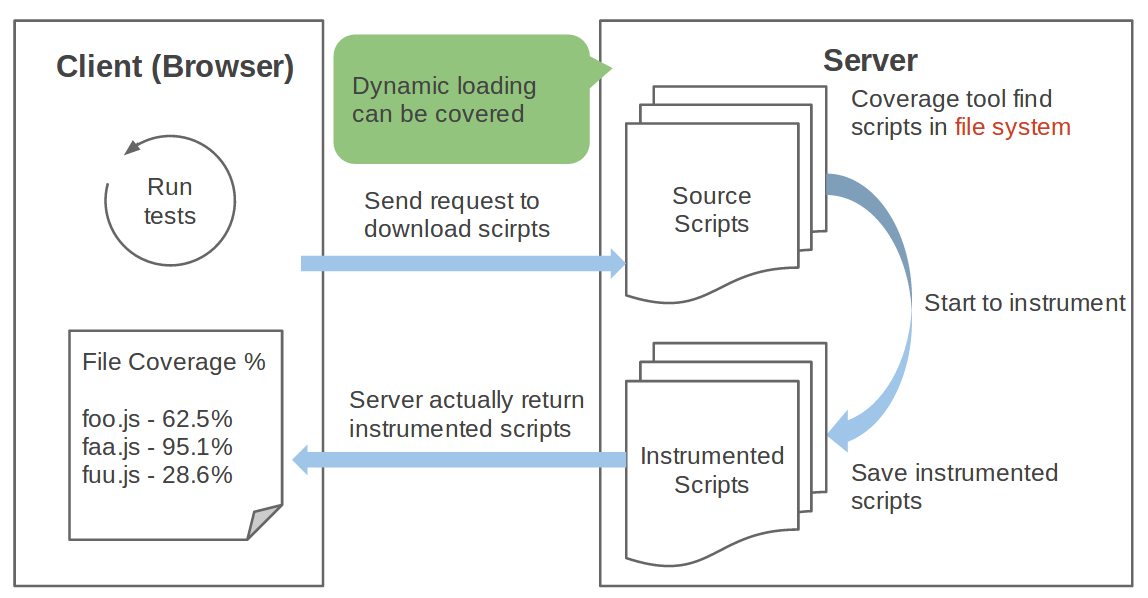
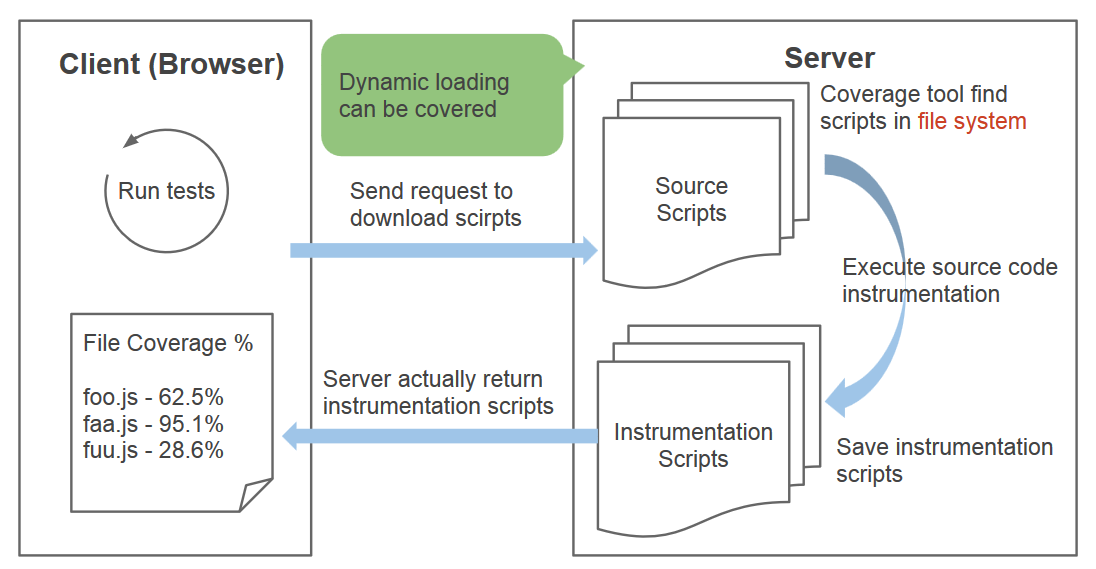
Update assets

diff --git a/index.html b/index.html
@@ -162,7 +162,7 @@
           <section>
             <h2>Browser instrumentation</h2>
             <img src="assets/mechanism1-client-server.png" alt=""></img>
-            <p>Code instrumenting on browser</p>
+            <p>Code instrumentation on browser</p>
           </section>
 
           <section>
@@ -189,7 +189,7 @@
           <section>
             <h2>Server instrumentation</h2>
             <img src="assets/mechanism2-client-server.png" alt="browser test runner"></img>
-            <p>Code instrumenting on coverage server</p>
+            <p>Code instrumentation on coverage server</p>
           </section>
 
           <section>
